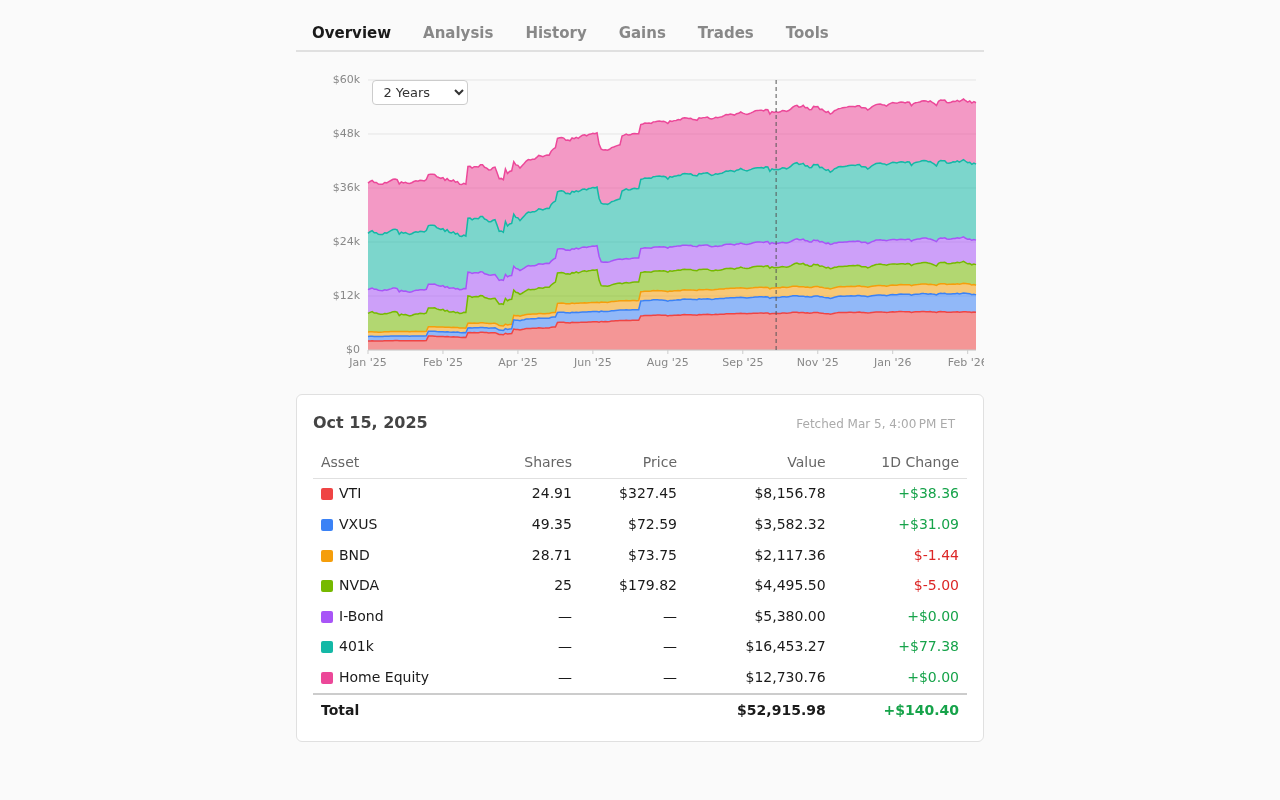
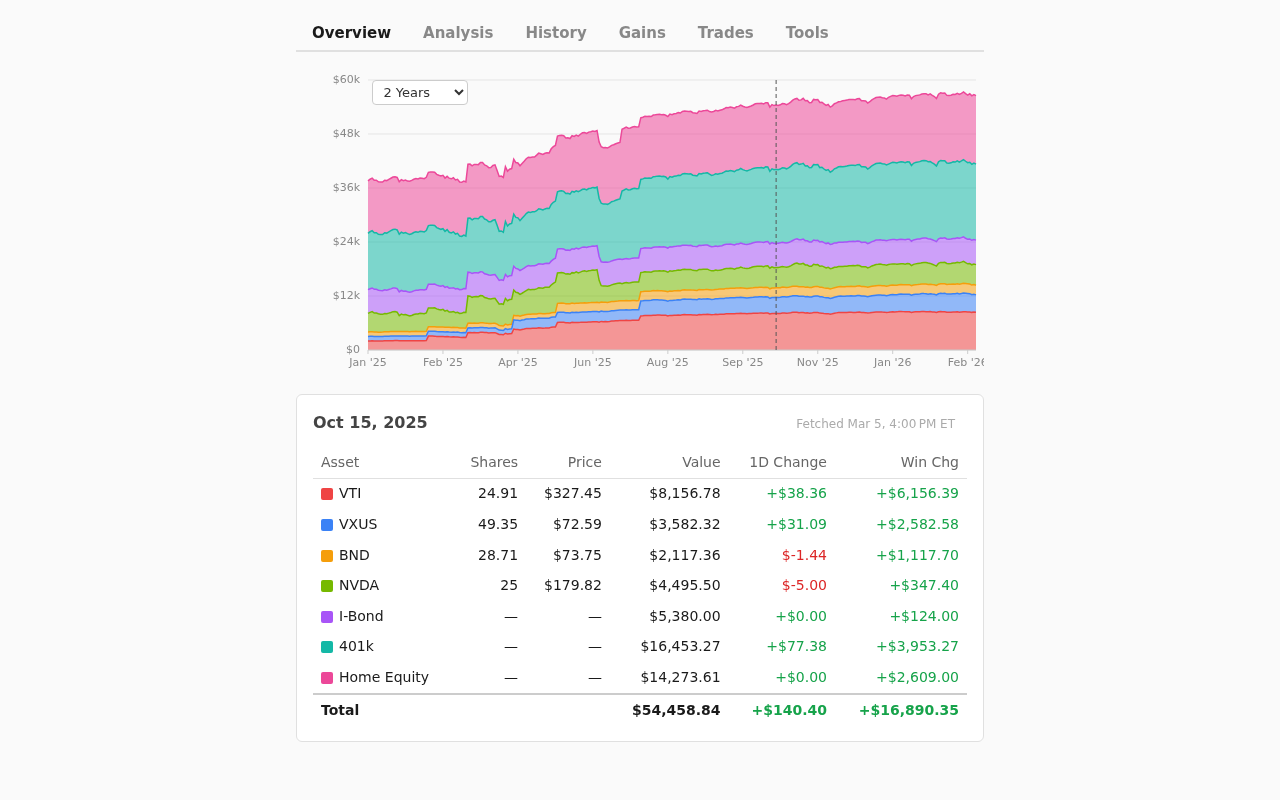
Add column for total time window change in overview tab detail table

diff --git a/app/js/app.js b/app/js/app.js
@@ -276,6 +276,7 @@ function drawChart(chart, data, hoverIdx) {
 function updateDetail(data, idx) {
   var pt = data.chartData[idx];
   var prev = idx > 0 ? data.chartData[idx - 1] : null;
+  var first = data.chartData[0];
   var symbols = data.symbols;
 
   document.getElementById("detail").classList.remove("hidden");
@@ -328,6 +329,15 @@ function updateDetail(data, idx) {
     }
     tr.appendChild(tdChg);
 
+    var tdWinChg = document.createElement("td");
+    tdWinChg.className = "col-win-chg";
+    var firstValue = first.values[sym] || 0;
+    var winChg = value - firstValue;
+    var winSign = winChg >= 0 ? "+" : "";
+    tdWinChg.textContent = winSign + fmtDollar(winChg);
+    tdWinChg.style.color = winChg >= 0 ? "#16a34a" : "#dc2626";
+    tr.appendChild(tdWinChg);
+
     tbody.appendChild(tr);
   }
 
@@ -342,6 +352,12 @@ function updateDetail(data, idx) {
   } else {
     totalChgEl.textContent = "\u2014";
   }
+
+  var winTotalEl = document.getElementById("detail-win-chg");
+  var winTotal = pt.total - first.total;
+  var winTotalSign = winTotal >= 0 ? "+" : "";
+  winTotalEl.textContent = winTotalSign + fmtDollar(winTotal);
+  winTotalEl.style.color = winTotal >= 0 ? "#16a34a" : "#dc2626";
 }
 
 function hideDetail() {

diff --git a/app/index.html b/app/index.html
@@ -60,6 +60,7 @@
                             <th class="col-price">Price</th>
                             <th>Value</th>
                             <th>1D Change</th>
+                            <th class="col-win-chg">Win Chg</th>
                         </tr>
                     </thead>
                     <tbody id="detail-body"></tbody>
@@ -70,6 +71,7 @@
                             <td class="col-price"></td>
                             <td id="detail-total"></td>
                             <td id="detail-change"></td>
+                            <td id="detail-win-chg" class="col-win-chg"></td>
                         </tr>
                     </tfoot>
                 </table>

diff --git a/app/style.css b/app/style.css
@@ -138,12 +138,14 @@ main { line-height: 1.5; }
 
 @media (max-width: 520px) {
     .col-shares,
-    .col-price {
+    .col-price,
+    .col-win-chg {
         display: none;
     }
 
     .detail.detail-expanded .col-shares,
-    .detail.detail-expanded .col-price {
+    .detail.detail-expanded .col-price,
+    .detail.detail-expanded .col-win-chg {
         display: table-cell;
     }
 
